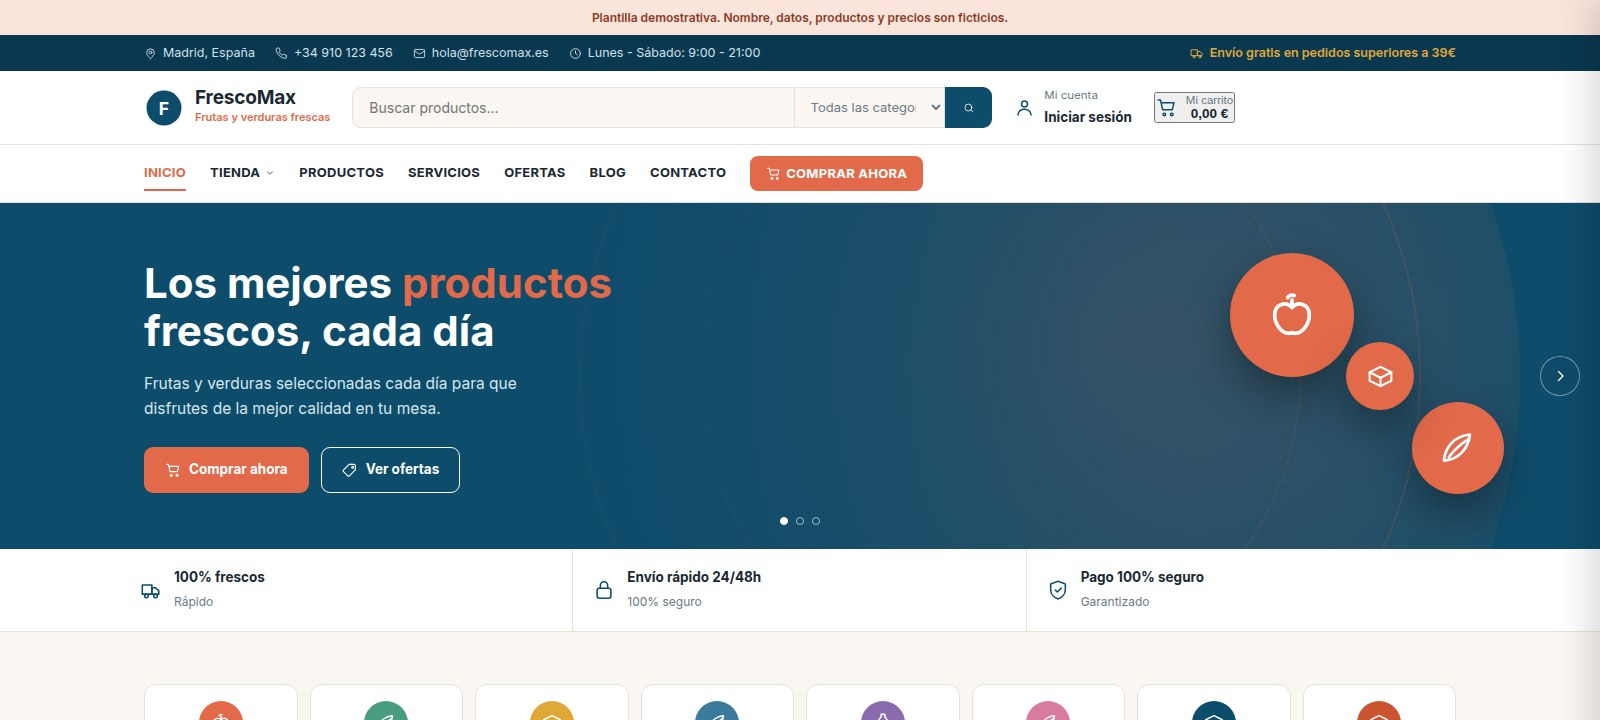
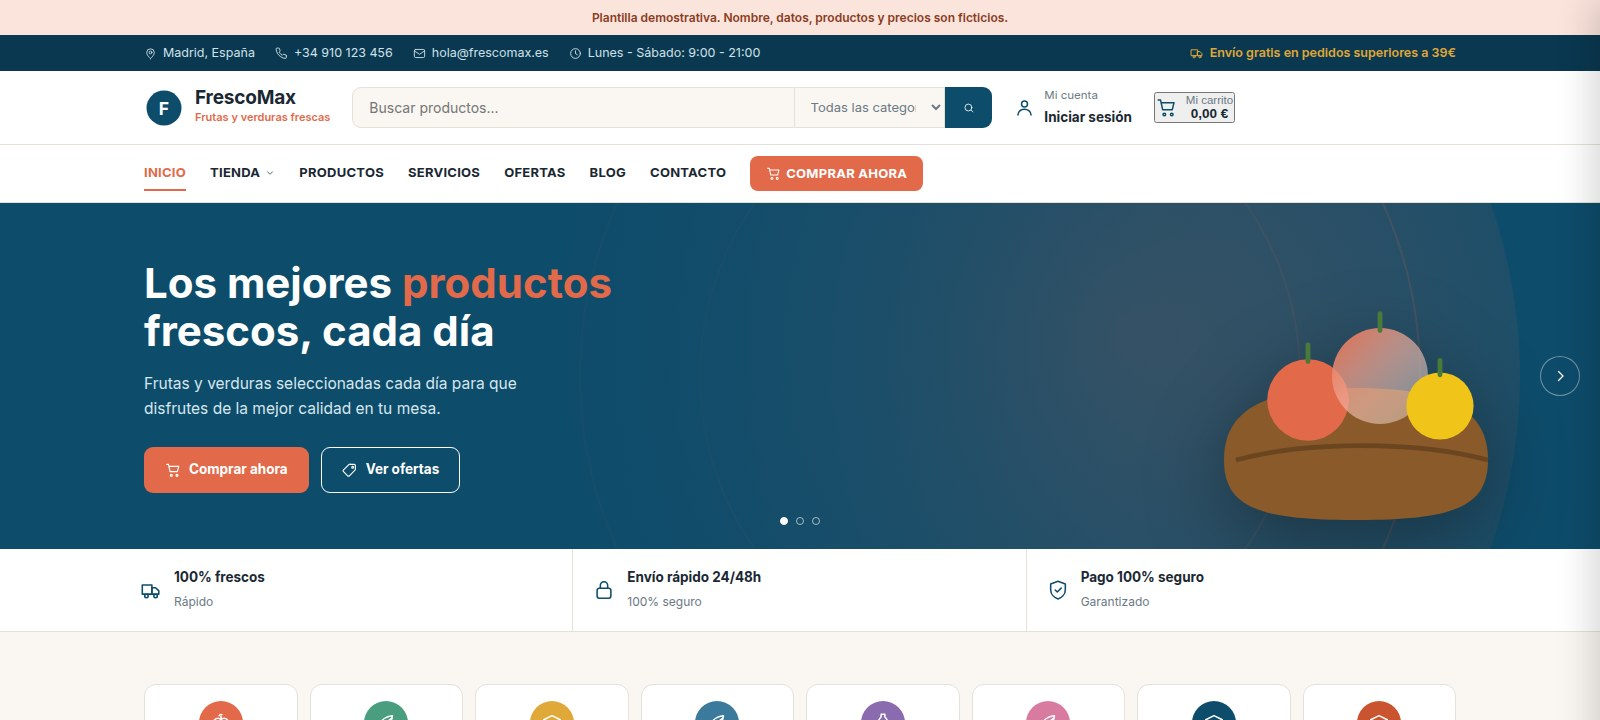
Escenas ilustradas propias por rubro en la portada de las 14 categorias tipo tienda (electronica, muebles, perfumeria, pesca, relojeria, boutique, auto, moto, construccion, musica, fruta, solar)

Changed region(s): [[0.75, 0.3361, 0.9375, 0.7333]]

diff --git a/public/demos/electronica-premium/index.html b/public/demos/electronica-premium/index.html
@@ -69,7 +69,8 @@
 <!-- Portada -->
 <section class="portada" id="inicio">
   <div class="portada-lienzo"><svg viewBox="0 0 800 560" preserveAspectRatio="xMidYMid slice" style="width:100%;height:100%" aria-hidden="true"><defs><radialGradient id="hg" cx="62%" cy="46%" r="55%"><stop offset="0%" stop-color="#0e4c6b" stop-opacity=".28"/><stop offset="100%" stop-color="#0e4c6b" stop-opacity="0"/></radialGradient></defs><rect width="800" height="560" fill="var(--azul)"/><circle cx="500" cy="280" r="260" fill="url(#hg)"/><circle cx="500" cy="280" r="210" fill="none" stroke="#0e4c6b" stroke-opacity=".18"/><circle cx="500" cy="280" r="150" fill="none" stroke="#0e4c6b" stroke-opacity=".12"/></svg></div>
-  <div class="portada-figuras" aria-hidden="true"><span class="figura figura-0" style="width:124px;height:124px;background:#0e4c6b"><svg width="52" height="52" viewBox="0 0 24 24" fill="none" stroke="currentColor" stroke-width="1.7" stroke-linecap="round" stroke-linejoin="round" aria-hidden="true"><path d="M9 18.5h6M9.5 21h5"/><path d="M12 3.5a6 6 0 0 0-3.4 10.9c.6.4 1 1.1 1 1.9v.7h4.8v-.7c0-.8.4-1.5 1-1.9A6 6 0 0 0 12 3.5z"/></svg></span><span class="figura figura-1" style="width:92px;height:92px;background:#0e4c6b"><svg width="39" height="39" viewBox="0 0 24 24" fill="none" stroke="currentColor" stroke-width="1.7" stroke-linecap="round" stroke-linejoin="round" aria-hidden="true"><path d="M3 8.5 12 4l9 4.5-9 4.5-9-4.5z"/><path d="M3 8.5v7L12 20l9-4.5v-7"/><path d="M12 13v7"/></svg></span><span class="figura figura-2" style="width:68px;height:68px;background:#0e4c6b"><svg width="29" height="29" viewBox="0 0 24 24" fill="none" stroke="currentColor" stroke-width="1.7" stroke-linecap="round" stroke-linejoin="round" aria-hidden="true"><path d="M9 18.5h6M9.5 21h5"/><path d="M12 3.5a6 6 0 0 0-3.4 10.9c.6.4 1 1.1 1 1.9v.7h4.8v-.7c0-.8.4-1.5 1-1.9A6 6 0 0 0 12 3.5z"/></svg></span></div>  <div class="portada-vel"></div>
+    <div class="portada-figuras portada-figuras-escena" aria-hidden="true"><svg viewBox="0 0 300 300" style="width:100%;height:100%;overflow:visible" aria-hidden="true"><defs><linearGradient id="g11857b" x1="0" y1="0" x2="1" y2="1"><stop offset="0%" stop-color="#0e4c6b"/><stop offset="100%" stop-color="#fff" stop-opacity=".35"/></linearGradient><linearGradient id="g11857bb" x1="0" y1="0" x2="1" y2="1"><stop offset="0%" stop-color="#4f7cff"/><stop offset="45%" stop-color="#a259e6"/><stop offset="75%" stop-color="#e6598a"/><stop offset="100%" stop-color="#f2a03d"/></linearGradient></defs><rect x="20" y="30" width="220" height="140" rx="10" fill="#1c2733"/><rect x="31" y="41" width="198" height="118" rx="4" fill="url(#g11857bb)"/><path d="M31 159h198l13 17H19z" fill="#101820"/><rect x="175" y="110" width="82" height="138" rx="15" fill="#1c2733" transform="rotate(8 216 179)"/><rect x="182" y="122" width="68" height="108" rx="7" fill="#0d151c" transform="rotate(8 216 179)"/><circle cx="216" cy="220" r="4" fill="#3a4b5c" transform="rotate(8 216 179)"/><path d="M45 205a44 36 0 0 1 88 0" fill="none" stroke="#1c2733" stroke-width="13" stroke-linecap="round"/><circle cx="45" cy="212" r="18" fill="#1c2733"/><circle cx="133" cy="212" r="18" fill="#1c2733"/></svg></div>
+    <div class="portada-vel"></div>
   <div class="env">
     <div class="portada-in">
       <h1>La mejor <em>tecnología</em> al mejor precio</h1>

diff --git a/public/demos/pesca-premium/index.html b/public/demos/pesca-premium/index.html
@@ -69,7 +69,8 @@
 <!-- Portada -->
 <section class="portada" id="inicio">
   <div class="portada-lienzo"><svg viewBox="0 0 800 560" preserveAspectRatio="xMidYMid slice" style="width:100%;height:100%" aria-hidden="true"><defs><radialGradient id="hg" cx="62%" cy="46%" r="55%"><stop offset="0%" stop-color="#0e4c6b" stop-opacity=".28"/><stop offset="100%" stop-color="#0e4c6b" stop-opacity="0"/></radialGradient></defs><rect width="800" height="560" fill="var(--azul)"/><circle cx="500" cy="280" r="260" fill="url(#hg)"/><circle cx="500" cy="280" r="210" fill="none" stroke="#0e4c6b" stroke-opacity=".18"/><circle cx="500" cy="280" r="150" fill="none" stroke="#0e4c6b" stroke-opacity=".12"/></svg></div>
-  <div class="portada-figuras" aria-hidden="true"><span class="figura figura-0" style="width:124px;height:124px;background:#0e4c6b"><svg width="52" height="52" viewBox="0 0 24 24" fill="none" stroke="currentColor" stroke-width="1.7" stroke-linecap="round" stroke-linejoin="round" aria-hidden="true"><path d="M3 12c3-4 8-6 12-4.5 2 .7 4 2.4 6 4.5-2 2.1-4 3.8-6 4.5-4 1.5-9-.5-12-4.5z"/><path d="M15 8.5 18 5M15 15.5l3 3"/><circle cx="7.5" cy="11" r="1"/></svg></span><span class="figura figura-1" style="width:92px;height:92px;background:#0e4c6b"><svg width="39" height="39" viewBox="0 0 24 24" fill="none" stroke="currentColor" stroke-width="1.7" stroke-linecap="round" stroke-linejoin="round" aria-hidden="true"><path d="M3 12c3-4 8-6 12-4.5 2 .7 4 2.4 6 4.5-2 2.1-4 3.8-6 4.5-4 1.5-9-.5-12-4.5z"/><path d="M15 8.5 18 5M15 15.5l3 3"/><circle cx="7.5" cy="11" r="1"/></svg></span><span class="figura figura-2" style="width:68px;height:68px;background:#0e4c6b"><svg width="29" height="29" viewBox="0 0 24 24" fill="none" stroke="currentColor" stroke-width="1.7" stroke-linecap="round" stroke-linejoin="round" aria-hidden="true"><path d="M3 12c3-4 8-6 12-4.5 2 .7 4 2.4 6 4.5-2 2.1-4 3.8-6 4.5-4 1.5-9-.5-12-4.5z"/><path d="M15 8.5 18 5M15 15.5l3 3"/><circle cx="7.5" cy="11" r="1"/></svg></span></div>  <div class="portada-vel"></div>
+    <div class="portada-figuras portada-figuras-escena" aria-hidden="true"><svg viewBox="0 0 300 300" style="width:100%;height:100%;overflow:visible" aria-hidden="true"><defs><linearGradient id="gc604d4" x1="0" y1="0" x2="1" y2="1"><stop offset="0%" stop-color="#0e4c6b"/><stop offset="100%" stop-color="#fff" stop-opacity=".35"/></linearGradient></defs><path d="M20 40 200 220" stroke="#cbd5df" stroke-width="2"/><path d="M90 175c46-34 106-34 150 0-46 40-104 40-150 0z" fill="url(#gc604d4)"/><path d="M240 175l42-26v52z" fill="url(#gc604d4)"/><circle cx="118" cy="167" r="7" fill="#101820"/><path d="M110 190q30 14 60 0" stroke="#101820" stroke-opacity=".3" stroke-width="3" fill="none"/><circle cx="90" cy="260" r="34" fill="none" stroke="#fff" stroke-opacity=".3" stroke-width="3"/><circle cx="90" cy="260" r="56" fill="none" stroke="#fff" stroke-opacity=".18" stroke-width="3"/><circle cx="90" cy="260" r="78" fill="none" stroke="#fff" stroke-opacity=".1" stroke-width="3"/></svg></div>
+    <div class="portada-vel"></div>
   <div class="env">
     <div class="portada-in">
       <h1>Todo lo que <em>necesitas</em> para pescar</h1>

diff --git a/public/demos/energia-solar-premium/index.html b/public/demos/energia-solar-premium/index.html
@@ -69,7 +69,8 @@
 <!-- Portada -->
 <section class="portada" id="inicio">
   <div class="portada-lienzo"><svg viewBox="0 0 800 560" preserveAspectRatio="xMidYMid slice" style="width:100%;height:100%" aria-hidden="true"><defs><radialGradient id="hg" cx="62%" cy="46%" r="55%"><stop offset="0%" stop-color="#e0a838" stop-opacity=".28"/><stop offset="100%" stop-color="#e0a838" stop-opacity="0"/></radialGradient></defs><rect width="800" height="560" fill="var(--azul)"/><circle cx="500" cy="280" r="260" fill="url(#hg)"/><circle cx="500" cy="280" r="210" fill="none" stroke="#e0a838" stroke-opacity=".18"/><circle cx="500" cy="280" r="150" fill="none" stroke="#e0a838" stroke-opacity=".12"/></svg></div>
-  <div class="portada-figuras" aria-hidden="true"><span class="figura figura-0" style="width:124px;height:124px;background:#e0a838"><svg width="52" height="52" viewBox="0 0 24 24" fill="none" stroke="currentColor" stroke-width="1.7" stroke-linecap="round" stroke-linejoin="round" aria-hidden="true"><circle cx="12" cy="12" r="4.5"/><path d="M12 2.5v3M12 18.5v3M21.5 12h-3M5.5 12h-3M18.5 5.5l-2 2M7.5 16.5l-2 2M18.5 18.5l-2-2M7.5 7.5l-2-2"/></svg></span><span class="figura figura-1" style="width:92px;height:92px;background:#e0a838"><svg width="39" height="39" viewBox="0 0 24 24" fill="none" stroke="currentColor" stroke-width="1.7" stroke-linecap="round" stroke-linejoin="round" aria-hidden="true"><path d="M9 18.5h6M9.5 21h5"/><path d="M12 3.5a6 6 0 0 0-3.4 10.9c.6.4 1 1.1 1 1.9v.7h4.8v-.7c0-.8.4-1.5 1-1.9A6 6 0 0 0 12 3.5z"/></svg></span><span class="figura figura-2" style="width:68px;height:68px;background:#e0a838"><svg width="29" height="29" viewBox="0 0 24 24" fill="none" stroke="currentColor" stroke-width="1.7" stroke-linecap="round" stroke-linejoin="round" aria-hidden="true"><path d="M9 18.5h6M9.5 21h5"/><path d="M12 3.5a6 6 0 0 0-3.4 10.9c.6.4 1 1.1 1 1.9v.7h4.8v-.7c0-.8.4-1.5 1-1.9A6 6 0 0 0 12 3.5z"/></svg></span></div>  <div class="portada-vel"></div>
+    <div class="portada-figuras portada-figuras-escena" aria-hidden="true"><svg viewBox="0 0 300 300" style="width:100%;height:100%;overflow:visible" aria-hidden="true"><defs><linearGradient id="g8944d7" x1="0" y1="0" x2="1" y2="1"><stop offset="0%" stop-color="#e0a838"/><stop offset="100%" stop-color="#fff" stop-opacity=".35"/></linearGradient></defs><circle cx="220" cy="90" r="38" fill="#f0c419"/><g stroke="#f0c419" stroke-width="4" stroke-linecap="round"><path d="M220 30v-14M270 46l10-10M286 90h14M270 134l10 10M220 150v14M170 134l-10 10M154 90h-14M170 46l-10-10"/></g><rect x="30" y="160" width="200" height="110" rx="8" fill="#1c2733" transform="skewY(-6)"/><g fill="url(#g8944d7)" transform="skewY(-6)"><rect x="40" y="172" width="88" height="42" rx="3"/><rect x="134" y="172" width="88" height="42" rx="3"/><rect x="40" y="220" width="88" height="42" rx="3"/><rect x="134" y="220" width="88" height="42" rx="3"/></g></svg></div>
+    <div class="portada-vel"></div>
   <div class="env">
     <div class="portada-in">
       <h1>Energía solar <em>para un futuro</em> más sostenible</h1>

diff --git a/public/demos/concesionaria-premium/index.html b/public/demos/concesionaria-premium/index.html
@@ -69,7 +69,8 @@
 <!-- Portada -->
 <section class="portada" id="inicio">
   <div class="portada-lienzo"><svg viewBox="0 0 800 560" preserveAspectRatio="xMidYMid slice" style="width:100%;height:100%" aria-hidden="true"><defs><radialGradient id="hg" cx="62%" cy="46%" r="55%"><stop offset="0%" stop-color="#0e4c6b" stop-opacity=".28"/><stop offset="100%" stop-color="#0e4c6b" stop-opacity="0"/></radialGradient></defs><rect width="800" height="560" fill="var(--azul)"/><circle cx="500" cy="280" r="260" fill="url(#hg)"/><circle cx="500" cy="280" r="210" fill="none" stroke="#0e4c6b" stroke-opacity=".18"/><circle cx="500" cy="280" r="150" fill="none" stroke="#0e4c6b" stroke-opacity=".12"/></svg></div>
-  <div class="portada-figuras" aria-hidden="true"><span class="figura figura-0" style="width:124px;height:124px;background:#0e4c6b"><svg width="52" height="52" viewBox="0 0 24 24" fill="none" stroke="currentColor" stroke-width="1.7" stroke-linecap="round" stroke-linejoin="round" aria-hidden="true"><path d="M3.5 16.5v-3l2-4.5a2 2 0 0 1 1.9-1.3h9.2a2 2 0 0 1 1.9 1.3l2 4.5v3"/><path d="M3.5 16.5h17M3.5 13.5h17"/><circle cx="7" cy="17.5" r="1.7"/><circle cx="17" cy="17.5" r="1.7"/></svg></span><span class="figura figura-1" style="width:92px;height:92px;background:#0e4c6b"><svg width="39" height="39" viewBox="0 0 24 24" fill="none" stroke="currentColor" stroke-width="1.7" stroke-linecap="round" stroke-linejoin="round" aria-hidden="true"><path d="M3.5 16.5v-3l2-4.5a2 2 0 0 1 1.9-1.3h9.2a2 2 0 0 1 1.9 1.3l2 4.5v3"/><path d="M3.5 16.5h17M3.5 13.5h17"/><circle cx="7" cy="17.5" r="1.7"/><circle cx="17" cy="17.5" r="1.7"/></svg></span><span class="figura figura-2" style="width:68px;height:68px;background:#0e4c6b"><svg width="29" height="29" viewBox="0 0 24 24" fill="none" stroke="currentColor" stroke-width="1.7" stroke-linecap="round" stroke-linejoin="round" aria-hidden="true"><path d="M3.5 16.5v-3l2-4.5a2 2 0 0 1 1.9-1.3h9.2a2 2 0 0 1 1.9 1.3l2 4.5v3"/><path d="M3.5 16.5h17M3.5 13.5h17"/><circle cx="7" cy="17.5" r="1.7"/><circle cx="17" cy="17.5" r="1.7"/></svg></span></div>  <div class="portada-vel"></div>
+    <div class="portada-figuras portada-figuras-escena" aria-hidden="true"><svg viewBox="0 0 300 300" style="width:100%;height:100%;overflow:visible" aria-hidden="true"><defs><linearGradient id="gbbc634" x1="0" y1="0" x2="1" y2="1"><stop offset="0%" stop-color="#0e4c6b"/><stop offset="100%" stop-color="#fff" stop-opacity=".35"/></linearGradient></defs><path d="M20 210c0-16 14-26 30-30l24-46c8-14 22-22 38-22h60c16 0 30 8 38 22l24 46c16 4 30 14 30 30v26H20z" fill="url(#gbbc634)"/><path d="M96 132l16-30c4-8 12-12 20-12h40c8 0 16 4 20 12l16 30z" fill="#1c2733" opacity=".5"/><circle cx="86" cy="238" r="30" fill="#1c2733"/><circle cx="86" cy="238" r="12" fill="#cbd5df"/><circle cx="228" cy="238" r="30" fill="#1c2733"/><circle cx="228" cy="238" r="12" fill="#cbd5df"/></svg></div>
+    <div class="portada-vel"></div>
   <div class="env">
     <div class="portada-in">
       <h1>Encuentra el coche <em>perfecto</em> para ti</h1>

diff --git a/public/demos/perfumeria-premium/index.html b/public/demos/perfumeria-premium/index.html
@@ -69,7 +69,8 @@
 <!-- Portada -->
 <section class="portada" id="inicio">
   <div class="portada-lienzo"><svg viewBox="0 0 800 560" preserveAspectRatio="xMidYMid slice" style="width:100%;height:100%" aria-hidden="true"><defs><radialGradient id="hg" cx="62%" cy="46%" r="55%"><stop offset="0%" stop-color="#d97ba0" stop-opacity=".28"/><stop offset="100%" stop-color="#d97ba0" stop-opacity="0"/></radialGradient></defs><rect width="800" height="560" fill="var(--azul)"/><circle cx="500" cy="280" r="260" fill="url(#hg)"/><circle cx="500" cy="280" r="210" fill="none" stroke="#d97ba0" stroke-opacity=".18"/><circle cx="500" cy="280" r="150" fill="none" stroke="#d97ba0" stroke-opacity=".12"/></svg></div>
-  <div class="portada-figuras" aria-hidden="true"><span class="figura figura-0" style="width:124px;height:124px;background:#d97ba0"><svg width="52" height="52" viewBox="0 0 24 24" fill="none" stroke="currentColor" stroke-width="1.7" stroke-linecap="round" stroke-linejoin="round" aria-hidden="true"><path d="M10 2.5h4v2.8l1.8 2.2c.5.6.7 1.3.7 2.1v9.4a2.5 2.5 0 0 1-2.5 2.5h-4a2.5 2.5 0 0 1-2.5-2.5V9.6c0-.8.2-1.5.7-2.1L10 5.3z"/><path d="M9.5 12.5h5"/></svg></span><span class="figura figura-1" style="width:92px;height:92px;background:#d97ba0"><svg width="39" height="39" viewBox="0 0 24 24" fill="none" stroke="currentColor" stroke-width="1.7" stroke-linecap="round" stroke-linejoin="round" aria-hidden="true"><path d="M10 2.5h4v2.8l1.8 2.2c.5.6.7 1.3.7 2.1v9.4a2.5 2.5 0 0 1-2.5 2.5h-4a2.5 2.5 0 0 1-2.5-2.5V9.6c0-.8.2-1.5.7-2.1L10 5.3z"/><path d="M9.5 12.5h5"/></svg></span><span class="figura figura-2" style="width:68px;height:68px;background:#d97ba0"><svg width="29" height="29" viewBox="0 0 24 24" fill="none" stroke="currentColor" stroke-width="1.7" stroke-linecap="round" stroke-linejoin="round" aria-hidden="true"><path d="M10 2.5h4v2.8l1.8 2.2c.5.6.7 1.3.7 2.1v9.4a2.5 2.5 0 0 1-2.5 2.5h-4a2.5 2.5 0 0 1-2.5-2.5V9.6c0-.8.2-1.5.7-2.1L10 5.3z"/><path d="M9.5 12.5h5"/></svg></span></div>  <div class="portada-vel"></div>
+    <div class="portada-figuras portada-figuras-escena" aria-hidden="true"><svg viewBox="0 0 300 300" style="width:100%;height:100%;overflow:visible" aria-hidden="true"><defs><linearGradient id="g6f336f" x1="0" y1="0" x2="1" y2="1"><stop offset="0%" stop-color="#d97ba0"/><stop offset="100%" stop-color="#fff" stop-opacity=".35"/></linearGradient></defs><rect x="120" y="90" width="70" height="150" rx="14" fill="url(#g6f336f)"/><rect x="140" y="60" width="30" height="34" rx="6" fill="#1c2733"/><rect x="132" y="46" width="46" height="18" rx="8" fill="#1c2733"/><rect x="40" y="150" width="46" height="100" rx="10" fill="#fff" opacity=".85"/><rect x="52" y="128" width="22" height="26" rx="5" fill="#1c2733"/><rect x="225" y="160" width="46" height="90" rx="10" fill="#fff" opacity=".7"/><rect x="237" y="140" width="22" height="24" rx="5" fill="#1c2733"/></svg></div>
+    <div class="portada-vel"></div>
   <div class="env">
     <div class="portada-in">
       <h1>Encuentra tu <em>fragancia</em> perfecta</h1>

diff --git a/public/demos/alquiler-coches-premium/index.html b/public/demos/alquiler-coches-premium/index.html
@@ -69,7 +69,8 @@
 <!-- Portada -->
 <section class="portada" id="inicio">
   <div class="portada-lienzo"><svg viewBox="0 0 800 560" preserveAspectRatio="xMidYMid slice" style="width:100%;height:100%" aria-hidden="true"><defs><radialGradient id="hg" cx="62%" cy="46%" r="55%"><stop offset="0%" stop-color="#e0a838" stop-opacity=".28"/><stop offset="100%" stop-color="#e0a838" stop-opacity="0"/></radialGradient></defs><rect width="800" height="560" fill="var(--azul)"/><circle cx="500" cy="280" r="260" fill="url(#hg)"/><circle cx="500" cy="280" r="210" fill="none" stroke="#e0a838" stroke-opacity=".18"/><circle cx="500" cy="280" r="150" fill="none" stroke="#e0a838" stroke-opacity=".12"/></svg></div>
-  <div class="portada-figuras" aria-hidden="true"><span class="figura figura-0" style="width:124px;height:124px;background:#e0a838"><svg width="52" height="52" viewBox="0 0 24 24" fill="none" stroke="currentColor" stroke-width="1.7" stroke-linecap="round" stroke-linejoin="round" aria-hidden="true"><path d="M3.5 16.5v-3l2-4.5a2 2 0 0 1 1.9-1.3h9.2a2 2 0 0 1 1.9 1.3l2 4.5v3"/><path d="M3.5 16.5h17M3.5 13.5h17"/><circle cx="7" cy="17.5" r="1.7"/><circle cx="17" cy="17.5" r="1.7"/></svg></span><span class="figura figura-1" style="width:92px;height:92px;background:#e0a838"><svg width="39" height="39" viewBox="0 0 24 24" fill="none" stroke="currentColor" stroke-width="1.7" stroke-linecap="round" stroke-linejoin="round" aria-hidden="true"><path d="M3.5 16.5v-3l2-4.5a2 2 0 0 1 1.9-1.3h9.2a2 2 0 0 1 1.9 1.3l2 4.5v3"/><path d="M3.5 16.5h17M3.5 13.5h17"/><circle cx="7" cy="17.5" r="1.7"/><circle cx="17" cy="17.5" r="1.7"/></svg></span><span class="figura figura-2" style="width:68px;height:68px;background:#e0a838"><svg width="29" height="29" viewBox="0 0 24 24" fill="none" stroke="currentColor" stroke-width="1.7" stroke-linecap="round" stroke-linejoin="round" aria-hidden="true"><path d="M3.5 16.5v-3l2-4.5a2 2 0 0 1 1.9-1.3h9.2a2 2 0 0 1 1.9 1.3l2 4.5v3"/><path d="M3.5 16.5h17M3.5 13.5h17"/><circle cx="7" cy="17.5" r="1.7"/><circle cx="17" cy="17.5" r="1.7"/></svg></span></div>  <div class="portada-vel"></div>
+    <div class="portada-figuras portada-figuras-escena" aria-hidden="true"><svg viewBox="0 0 300 300" style="width:100%;height:100%;overflow:visible" aria-hidden="true"><defs><linearGradient id="ge864da" x1="0" y1="0" x2="1" y2="1"><stop offset="0%" stop-color="#e0a838"/><stop offset="100%" stop-color="#fff" stop-opacity=".35"/></linearGradient></defs><path d="M20 210c0-16 14-26 30-30l24-46c8-14 22-22 38-22h60c16 0 30 8 38 22l24 46c16 4 30 14 30 30v26H20z" fill="url(#ge864da)"/><path d="M96 132l16-30c4-8 12-12 20-12h40c8 0 16 4 20 12l16 30z" fill="#1c2733" opacity=".5"/><circle cx="86" cy="238" r="30" fill="#1c2733"/><circle cx="86" cy="238" r="12" fill="#cbd5df"/><circle cx="228" cy="238" r="30" fill="#1c2733"/><circle cx="228" cy="238" r="12" fill="#cbd5df"/></svg></div>
+    <div class="portada-vel"></div>
   <div class="env">
     <div class="portada-in">
       <h1>Tu viaje, <em>nuestra</em> pasión</h1>

diff --git a/public/demos/materiales-construccion-premium/index.html b/public/demos/materiales-construccion-premium/index.html
@@ -69,7 +69,8 @@
 <!-- Portada -->
 <section class="portada" id="inicio">
   <div class="portada-lienzo"><svg viewBox="0 0 800 560" preserveAspectRatio="xMidYMid slice" style="width:100%;height:100%" aria-hidden="true"><defs><radialGradient id="hg" cx="62%" cy="46%" r="55%"><stop offset="0%" stop-color="#e2694a" stop-opacity=".28"/><stop offset="100%" stop-color="#e2694a" stop-opacity="0"/></radialGradient></defs><rect width="800" height="560" fill="var(--azul)"/><circle cx="500" cy="280" r="260" fill="url(#hg)"/><circle cx="500" cy="280" r="210" fill="none" stroke="#e2694a" stroke-opacity=".18"/><circle cx="500" cy="280" r="150" fill="none" stroke="#e2694a" stroke-opacity=".12"/></svg></div>
-  <div class="portada-figuras" aria-hidden="true"><span class="figura figura-0" style="width:124px;height:124px;background:#e2694a"><svg width="52" height="52" viewBox="0 0 24 24" fill="none" stroke="currentColor" stroke-width="1.7" stroke-linecap="round" stroke-linejoin="round" aria-hidden="true"><rect x="2.5" y="6" width="19" height="12" rx="1.4"/><path d="M2.5 12h6M12.5 6v6M8.5 12v6M16.5 12v6M12.5 12h9"/></svg></span><span class="figura figura-1" style="width:92px;height:92px;background:#e2694a"><svg width="39" height="39" viewBox="0 0 24 24" fill="none" stroke="currentColor" stroke-width="1.7" stroke-linecap="round" stroke-linejoin="round" aria-hidden="true"><rect x="2.5" y="6" width="19" height="12" rx="1.4"/><path d="M2.5 12h6M12.5 6v6M8.5 12v6M16.5 12v6M12.5 12h9"/></svg></span><span class="figura figura-2" style="width:68px;height:68px;background:#e2694a"><svg width="29" height="29" viewBox="0 0 24 24" fill="none" stroke="currentColor" stroke-width="1.7" stroke-linecap="round" stroke-linejoin="round" aria-hidden="true"><path d="M6 3v4M4 5h4M18 15.5 8.5 6a3 3 0 1 0-2.5 2.5L15.5 18a1.8 1.8 0 0 0 2.5 0l0-.01a1.8 1.8 0 0 0 0-2.49z"/></svg></span></div>  <div class="portada-vel"></div>
+    <div class="portada-figuras portada-figuras-escena" aria-hidden="true"><svg viewBox="0 0 300 300" style="width:100%;height:100%;overflow:visible" aria-hidden="true"><defs><linearGradient id="g823fbb" x1="0" y1="0" x2="1" y2="1"><stop offset="0%" stop-color="#e2694a"/><stop offset="100%" stop-color="#fff" stop-opacity=".35"/></linearGradient></defs><rect x="30" y="160" width="90" height="42" rx="5" fill="url(#g823fbb)"/><rect x="128" y="160" width="90" height="42" rx="5" fill="url(#g823fbb)" opacity=".85"/><rect x="30" y="110" width="90" height="42" rx="5" fill="url(#g823fbb)" opacity=".7"/><rect x="128" y="110" width="90" height="42" rx="5" fill="url(#g823fbb)" opacity=".55"/><path d="M110 250a90 55 0 0 1 130 0z" fill="#f0c419"/><rect x="98" y="246" width="154" height="18" rx="5" fill="#f0c419"/></svg></div>
+    <div class="portada-vel"></div>
   <div class="env">
     <div class="portada-in">
       <h1>Materiales de <em>construcción</em> para cada proyecto</h1>

diff --git a/public/demos/muebles-decoracion-premium/index.html b/public/demos/muebles-decoracion-premium/index.html
@@ -69,7 +69,8 @@
 <!-- Portada -->
 <section class="portada" id="inicio">
   <div class="portada-lienzo"><svg viewBox="0 0 800 560" preserveAspectRatio="xMidYMid slice" style="width:100%;height:100%" aria-hidden="true"><defs><radialGradient id="hg" cx="62%" cy="46%" r="55%"><stop offset="0%" stop-color="#e2694a" stop-opacity=".28"/><stop offset="100%" stop-color="#e2694a" stop-opacity="0"/></radialGradient></defs><rect width="800" height="560" fill="var(--azul)"/><circle cx="500" cy="280" r="260" fill="url(#hg)"/><circle cx="500" cy="280" r="210" fill="none" stroke="#e2694a" stroke-opacity=".18"/><circle cx="500" cy="280" r="150" fill="none" stroke="#e2694a" stroke-opacity=".12"/></svg></div>
-  <div class="portada-figuras" aria-hidden="true"><span class="figura figura-0" style="width:124px;height:124px;background:#e2694a"><svg width="52" height="52" viewBox="0 0 24 24" fill="none" stroke="currentColor" stroke-width="1.7" stroke-linecap="round" stroke-linejoin="round" aria-hidden="true"><path d="M5 12V8a2 2 0 0 1 2-2h10a2 2 0 0 1 2 2v4"/><path d="M3.5 12h17v5a1.5 1.5 0 0 1-1.5 1.5H5A1.5 1.5 0 0 1 3.5 17z"/><path d="M4.5 18.5V20M19.5 18.5V20"/></svg></span><span class="figura figura-1" style="width:92px;height:92px;background:#e2694a"><svg width="39" height="39" viewBox="0 0 24 24" fill="none" stroke="currentColor" stroke-width="1.7" stroke-linecap="round" stroke-linejoin="round" aria-hidden="true"><path d="M3 20v-9M3 15h18v5M21 20v-5"/><path d="M6.5 11V8.5h11V11"/><circle cx="8" cy="12.8" r="1.6"/></svg></span><span class="figura figura-2" style="width:68px;height:68px;background:#e2694a"><svg width="29" height="29" viewBox="0 0 24 24" fill="none" stroke="currentColor" stroke-width="1.7" stroke-linecap="round" stroke-linejoin="round" aria-hidden="true"><path d="M3 8.5 12 4l9 4.5-9 4.5-9-4.5z"/><path d="M3 8.5v7L12 20l9-4.5v-7"/><path d="M12 13v7"/></svg></span></div>  <div class="portada-vel"></div>
+    <div class="portada-figuras portada-figuras-escena" aria-hidden="true"><svg viewBox="0 0 300 300" style="width:100%;height:100%;overflow:visible" aria-hidden="true"><defs><linearGradient id="g5c6302" x1="0" y1="0" x2="1" y2="1"><stop offset="0%" stop-color="#e2694a"/><stop offset="100%" stop-color="#fff" stop-opacity=".35"/></linearGradient></defs><rect x="20" y="150" width="260" height="110" rx="26" fill="url(#g5c6302)"/><rect x="20" y="120" width="70" height="70" rx="20" fill="#fff" opacity=".92"/><rect x="20" y="230" width="260" height="16" rx="8" fill="#1c2733"/><circle cx="45" cy="256" r="10" fill="#1c2733"/><circle cx="255" cy="256" r="10" fill="#1c2733"/><rect x="200" y="30" width="14" height="130" rx="7" fill="#1c2733"/><path d="M170 30h74l-16 46h-42z" fill="#f0c419"/></svg></div>
+    <div class="portada-vel"></div>
   <div class="env">
     <div class="portada-in">
       <h1>Diseño y confort <em>para</em> tu hogar</h1>

diff --git a/public/demos/fruteria-premium/index.html b/public/demos/fruteria-premium/index.html
@@ -69,7 +69,8 @@
 <!-- Portada -->
 <section class="portada" id="inicio">
   <div class="portada-lienzo"><svg viewBox="0 0 800 560" preserveAspectRatio="xMidYMid slice" style="width:100%;height:100%" aria-hidden="true"><defs><radialGradient id="hg" cx="62%" cy="46%" r="55%"><stop offset="0%" stop-color="#e2694a" stop-opacity=".28"/><stop offset="100%" stop-color="#e2694a" stop-opacity="0"/></radialGradient></defs><rect width="800" height="560" fill="var(--azul)"/><circle cx="500" cy="280" r="260" fill="url(#hg)"/><circle cx="500" cy="280" r="210" fill="none" stroke="#e2694a" stroke-opacity=".18"/><circle cx="500" cy="280" r="150" fill="none" stroke="#e2694a" stroke-opacity=".12"/></svg></div>
-  <div class="portada-figuras" aria-hidden="true"><span class="figura figura-0" style="width:124px;height:124px;background:#e2694a"><svg width="52" height="52" viewBox="0 0 24 24" fill="none" stroke="currentColor" stroke-width="1.7" stroke-linecap="round" stroke-linejoin="round" aria-hidden="true"><path d="M12 8.5c-3-3-8-1.5-8 3.5 0 4.5 3.5 8.5 6.5 8.5 1 0 1.5-.4 1.5-.4s.5.4 1.5.4c3 0 6.5-4 6.5-8.5 0-5-5-6.5-8-3.5z"/><path d="M12 8.5V5M10 4c.5-1 2-1.5 3-1"/></svg></span><span class="figura figura-1" style="width:92px;height:92px;background:#e2694a"><svg width="39" height="39" viewBox="0 0 24 24" fill="none" stroke="currentColor" stroke-width="1.7" stroke-linecap="round" stroke-linejoin="round" aria-hidden="true"><path d="M4 20c8-1 14-7 15-16-9 1-15 7-16 16z"/><path d="M6 18c3-4 7-8 12-11"/></svg></span><span class="figura figura-2" style="width:68px;height:68px;background:#e2694a"><svg width="29" height="29" viewBox="0 0 24 24" fill="none" stroke="currentColor" stroke-width="1.7" stroke-linecap="round" stroke-linejoin="round" aria-hidden="true"><path d="M3 8.5 12 4l9 4.5-9 4.5-9-4.5z"/><path d="M3 8.5v7L12 20l9-4.5v-7"/><path d="M12 13v7"/></svg></span></div>  <div class="portada-vel"></div>
+    <div class="portada-figuras portada-figuras-escena" aria-hidden="true"><svg viewBox="0 0 300 300" style="width:100%;height:100%;overflow:visible" aria-hidden="true"><defs><linearGradient id="gc58c07" x1="0" y1="0" x2="1" y2="1"><stop offset="0%" stop-color="#e2694a"/><stop offset="100%" stop-color="#fff" stop-opacity=".35"/></linearGradient></defs><path d="M40 220c0-40 30-60 110-60s110 20 110 60-30 50-110 50-110-10-110-50z" fill="#8a5a2b"/><path d="M50 220c60-16 150-16 210 0" fill="none" stroke="#6b4520" stroke-width="4"/><circle cx="110" cy="170" r="34" fill="#e2694a"/><circle cx="170" cy="150" r="40" fill="url(#gc58c07)"/><circle cx="220" cy="175" r="28" fill="#f0c419"/><path d="M110 138v-14M170 112v-14M220 149v-12" stroke="#4a7a3a" stroke-width="4" stroke-linecap="round"/></svg></div>
+    <div class="portada-vel"></div>
   <div class="env">
     <div class="portada-in">
       <h1>Los mejores <em>productos</em> frescos, cada día</h1>

diff --git a/public/demos/piezas-auto-premium/index.html b/public/demos/piezas-auto-premium/index.html
@@ -69,7 +69,8 @@
 <!-- Portada -->
 <section class="portada" id="inicio">
   <div class="portada-lienzo"><svg viewBox="0 0 800 560" preserveAspectRatio="xMidYMid slice" style="width:100%;height:100%" aria-hidden="true"><defs><radialGradient id="hg" cx="62%" cy="46%" r="55%"><stop offset="0%" stop-color="#e2694a" stop-opacity=".28"/><stop offset="100%" stop-color="#e2694a" stop-opacity="0"/></radialGradient></defs><rect width="800" height="560" fill="var(--azul)"/><circle cx="500" cy="280" r="260" fill="url(#hg)"/><circle cx="500" cy="280" r="210" fill="none" stroke="#e2694a" stroke-opacity=".18"/><circle cx="500" cy="280" r="150" fill="none" stroke="#e2694a" stroke-opacity=".12"/></svg></div>
-  <div class="portada-figuras" aria-hidden="true"><span class="figura figura-0" style="width:124px;height:124px;background:#e2694a"><svg width="52" height="52" viewBox="0 0 24 24" fill="none" stroke="currentColor" stroke-width="1.7" stroke-linecap="round" stroke-linejoin="round" aria-hidden="true"><path d="M4 9 8 3.5h8L20 9l-8 11.5z"/><path d="M4 9h16M9.5 3.5 8 9l4 11.5 4-11.5-1.5-5.5"/></svg></span><span class="figura figura-1" style="width:92px;height:92px;background:#e2694a"><svg width="39" height="39" viewBox="0 0 24 24" fill="none" stroke="currentColor" stroke-width="1.7" stroke-linecap="round" stroke-linejoin="round" aria-hidden="true"><path d="M9 18.5h6M9.5 21h5"/><path d="M12 3.5a6 6 0 0 0-3.4 10.9c.6.4 1 1.1 1 1.9v.7h4.8v-.7c0-.8.4-1.5 1-1.9A6 6 0 0 0 12 3.5z"/></svg></span><span class="figura figura-2" style="width:68px;height:68px;background:#e2694a"><svg width="29" height="29" viewBox="0 0 24 24" fill="none" stroke="currentColor" stroke-width="1.7" stroke-linecap="round" stroke-linejoin="round" aria-hidden="true"><path d="M3 8.5 12 4l9 4.5-9 4.5-9-4.5z"/><path d="M3 8.5v7L12 20l9-4.5v-7"/><path d="M12 13v7"/></svg></span></div>  <div class="portada-vel"></div>
+    <div class="portada-figuras portada-figuras-escena" aria-hidden="true"><svg viewBox="0 0 300 300" style="width:100%;height:100%;overflow:visible" aria-hidden="true"><defs><linearGradient id="g103e10" x1="0" y1="0" x2="1" y2="1"><stop offset="0%" stop-color="#e2694a"/><stop offset="100%" stop-color="#fff" stop-opacity=".35"/></linearGradient></defs><path d="M20 210c0-16 14-26 30-30l24-46c8-14 22-22 38-22h60c16 0 30 8 38 22l24 46c16 4 30 14 30 30v26H20z" fill="url(#g103e10)"/><path d="M96 132l16-30c4-8 12-12 20-12h40c8 0 16 4 20 12l16 30z" fill="#1c2733" opacity=".5"/><circle cx="86" cy="238" r="30" fill="#1c2733"/><circle cx="86" cy="238" r="12" fill="#cbd5df"/><circle cx="228" cy="238" r="30" fill="#1c2733"/><circle cx="228" cy="238" r="12" fill="#cbd5df"/></svg></div>
+    <div class="portada-vel"></div>
   <div class="env">
     <div class="portada-in">
       <h1>Las mejores piezas <em>para</em> tu vehículo</h1>

diff --git a/public/demos/piezas-moto-premium/index.html b/public/demos/piezas-moto-premium/index.html
@@ -69,7 +69,8 @@
 <!-- Portada -->
 <section class="portada" id="inicio">
   <div class="portada-lienzo"><svg viewBox="0 0 800 560" preserveAspectRatio="xMidYMid slice" style="width:100%;height:100%" aria-hidden="true"><defs><radialGradient id="hg" cx="62%" cy="46%" r="55%"><stop offset="0%" stop-color="#e2694a" stop-opacity=".28"/><stop offset="100%" stop-color="#e2694a" stop-opacity="0"/></radialGradient></defs><rect width="800" height="560" fill="var(--azul)"/><circle cx="500" cy="280" r="260" fill="url(#hg)"/><circle cx="500" cy="280" r="210" fill="none" stroke="#e2694a" stroke-opacity=".18"/><circle cx="500" cy="280" r="150" fill="none" stroke="#e2694a" stroke-opacity=".12"/></svg></div>
-  <div class="portada-figuras" aria-hidden="true"><span class="figura figura-0" style="width:124px;height:124px;background:#e2694a"><svg width="52" height="52" viewBox="0 0 24 24" fill="none" stroke="currentColor" stroke-width="1.7" stroke-linecap="round" stroke-linejoin="round" aria-hidden="true"><path d="M4 9 8 3.5h8L20 9l-8 11.5z"/><path d="M4 9h16M9.5 3.5 8 9l4 11.5 4-11.5-1.5-5.5"/></svg></span><span class="figura figura-1" style="width:92px;height:92px;background:#e2694a"><svg width="39" height="39" viewBox="0 0 24 24" fill="none" stroke="currentColor" stroke-width="1.7" stroke-linecap="round" stroke-linejoin="round" aria-hidden="true"><path d="M9 18.5h6M9.5 21h5"/><path d="M12 3.5a6 6 0 0 0-3.4 10.9c.6.4 1 1.1 1 1.9v.7h4.8v-.7c0-.8.4-1.5 1-1.9A6 6 0 0 0 12 3.5z"/></svg></span><span class="figura figura-2" style="width:68px;height:68px;background:#e2694a"><svg width="29" height="29" viewBox="0 0 24 24" fill="none" stroke="currentColor" stroke-width="1.7" stroke-linecap="round" stroke-linejoin="round" aria-hidden="true"><circle cx="5.5" cy="17" r="3"/><circle cx="18.5" cy="17" r="3"/><path d="M5.5 17 9 9.5h5l3 3.5h2M9 9.5 7.5 6h-2M13 13l1.5-3.5"/></svg></span></div>  <div class="portada-vel"></div>
+    <div class="portada-figuras portada-figuras-escena" aria-hidden="true"><svg viewBox="0 0 300 300" style="width:100%;height:100%;overflow:visible" aria-hidden="true"><defs><linearGradient id="g04a6da" x1="0" y1="0" x2="1" y2="1"><stop offset="0%" stop-color="#e2694a"/><stop offset="100%" stop-color="#fff" stop-opacity=".35"/></linearGradient></defs><circle cx="70" cy="230" r="42" fill="none" stroke="#1c2733" stroke-width="12"/><circle cx="250" cy="230" r="42" fill="none" stroke="#1c2733" stroke-width="12"/><path d="M70 230 130 150h60l50 50h20M130 150l20-40h30" fill="none" stroke="url(#g04a6da)" stroke-width="10" stroke-linecap="round" stroke-linejoin="round"/><rect x="118" y="118" width="56" height="18" rx="9" fill="#1c2733"/></svg></div>
+    <div class="portada-vel"></div>
   <div class="env">
     <div class="portada-in">
       <h1>Piezas y recambios <em>para</em> tu moto</h1>

diff --git a/public/demos/relojeria-premium/index.html b/public/demos/relojeria-premium/index.html
@@ -69,7 +69,8 @@
 <!-- Portada -->
 <section class="portada" id="inicio">
   <div class="portada-lienzo"><svg viewBox="0 0 800 560" preserveAspectRatio="xMidYMid slice" style="width:100%;height:100%" aria-hidden="true"><defs><radialGradient id="hg" cx="62%" cy="46%" r="55%"><stop offset="0%" stop-color="#0e4c6b" stop-opacity=".28"/><stop offset="100%" stop-color="#0e4c6b" stop-opacity="0"/></radialGradient></defs><rect width="800" height="560" fill="var(--azul)"/><circle cx="500" cy="280" r="260" fill="url(#hg)"/><circle cx="500" cy="280" r="210" fill="none" stroke="#0e4c6b" stroke-opacity=".18"/><circle cx="500" cy="280" r="150" fill="none" stroke="#0e4c6b" stroke-opacity=".12"/></svg></div>
-  <div class="portada-figuras" aria-hidden="true"><span class="figura figura-0" style="width:124px;height:124px;background:#0e4c6b"><svg width="52" height="52" viewBox="0 0 24 24" fill="none" stroke="currentColor" stroke-width="1.7" stroke-linecap="round" stroke-linejoin="round" aria-hidden="true"><circle cx="12" cy="12" r="9"/><path d="M12 7v5.2l3.3 2"/></svg></span><span class="figura figura-1" style="width:92px;height:92px;background:#0e4c6b"><svg width="39" height="39" viewBox="0 0 24 24" fill="none" stroke="currentColor" stroke-width="1.7" stroke-linecap="round" stroke-linejoin="round" aria-hidden="true"><circle cx="12" cy="12" r="9"/><path d="M12 7v5.2l3.3 2"/></svg></span><span class="figura figura-2" style="width:68px;height:68px;background:#0e4c6b"><svg width="29" height="29" viewBox="0 0 24 24" fill="none" stroke="currentColor" stroke-width="1.7" stroke-linecap="round" stroke-linejoin="round" aria-hidden="true"><circle cx="12" cy="12" r="9"/><path d="M12 7v5.2l3.3 2"/></svg></span></div>  <div class="portada-vel"></div>
+    <div class="portada-figuras portada-figuras-escena" aria-hidden="true"><svg viewBox="0 0 300 300" style="width:100%;height:100%;overflow:visible" aria-hidden="true"><defs><linearGradient id="g069616" x1="0" y1="0" x2="1" y2="1"><stop offset="0%" stop-color="#0e4c6b"/><stop offset="100%" stop-color="#fff" stop-opacity=".35"/></linearGradient></defs><circle cx="150" cy="160" r="92" fill="#1c2733"/><circle cx="150" cy="160" r="72" fill="url(#g069616)"/><circle cx="150" cy="160" r="4" fill="#1c2733"/><path d="M150 160V108M150 160l32 18" stroke="#1c2733" stroke-width="5" stroke-linecap="round"/><rect x="128" y="40" width="44" height="34" rx="8" fill="#1c2733"/><rect x="128" y="246" width="44" height="34" rx="8" fill="#1c2733"/><circle cx="255" cy="250" r="26" fill="#fff" opacity=".85"/><path d="M255 236v14l10 6" stroke="#0e4c6b" stroke-width="3" stroke-linecap="round"/></svg></div>
+    <div class="portada-vel"></div>
   <div class="env">
     <div class="portada-in">
       <h1>El tiempo <em>define</em> tu estilo</h1>
